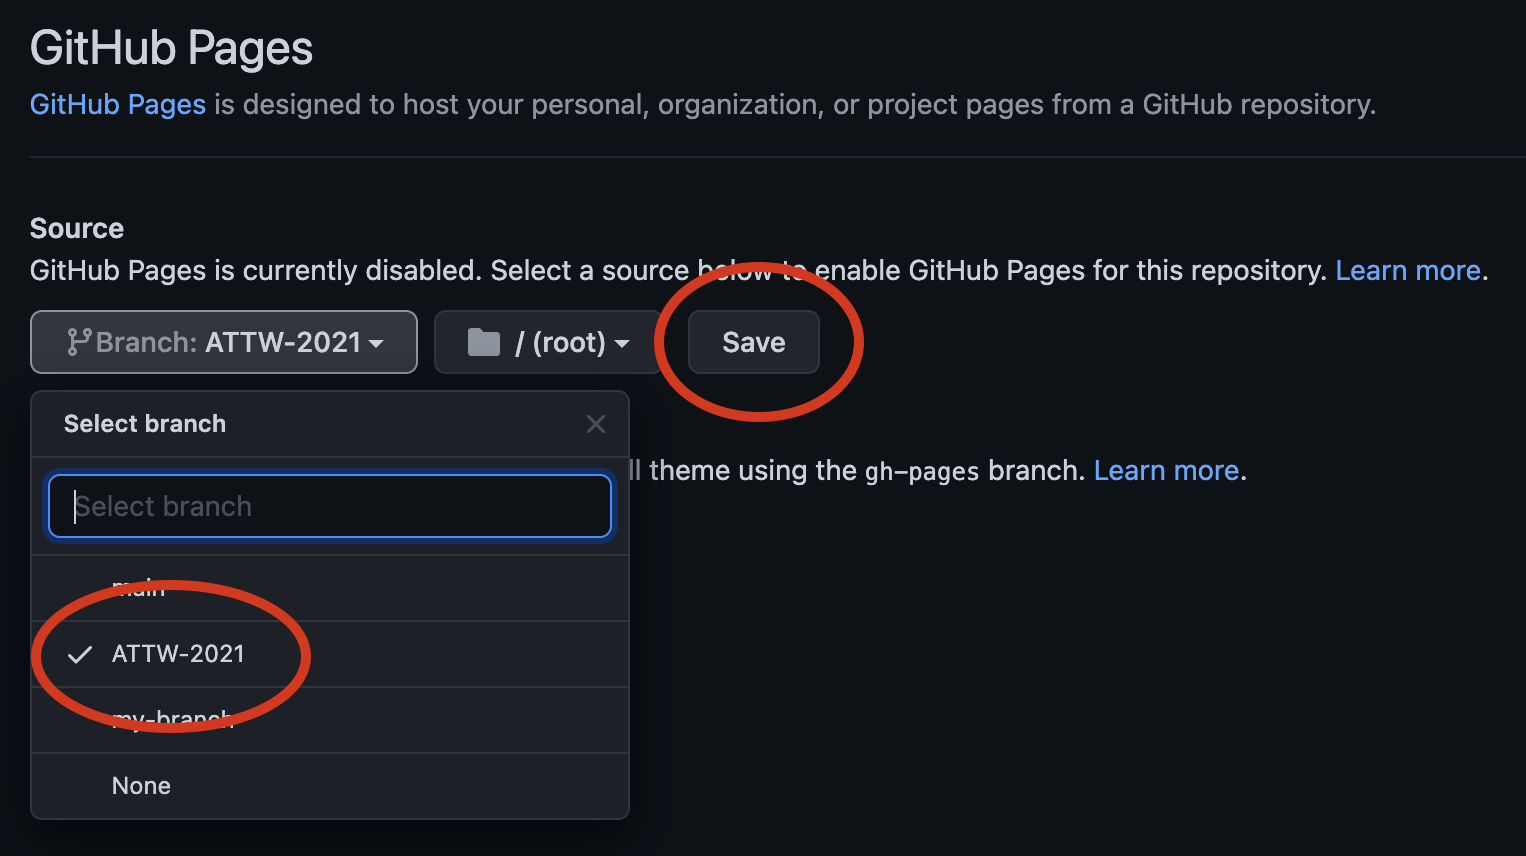
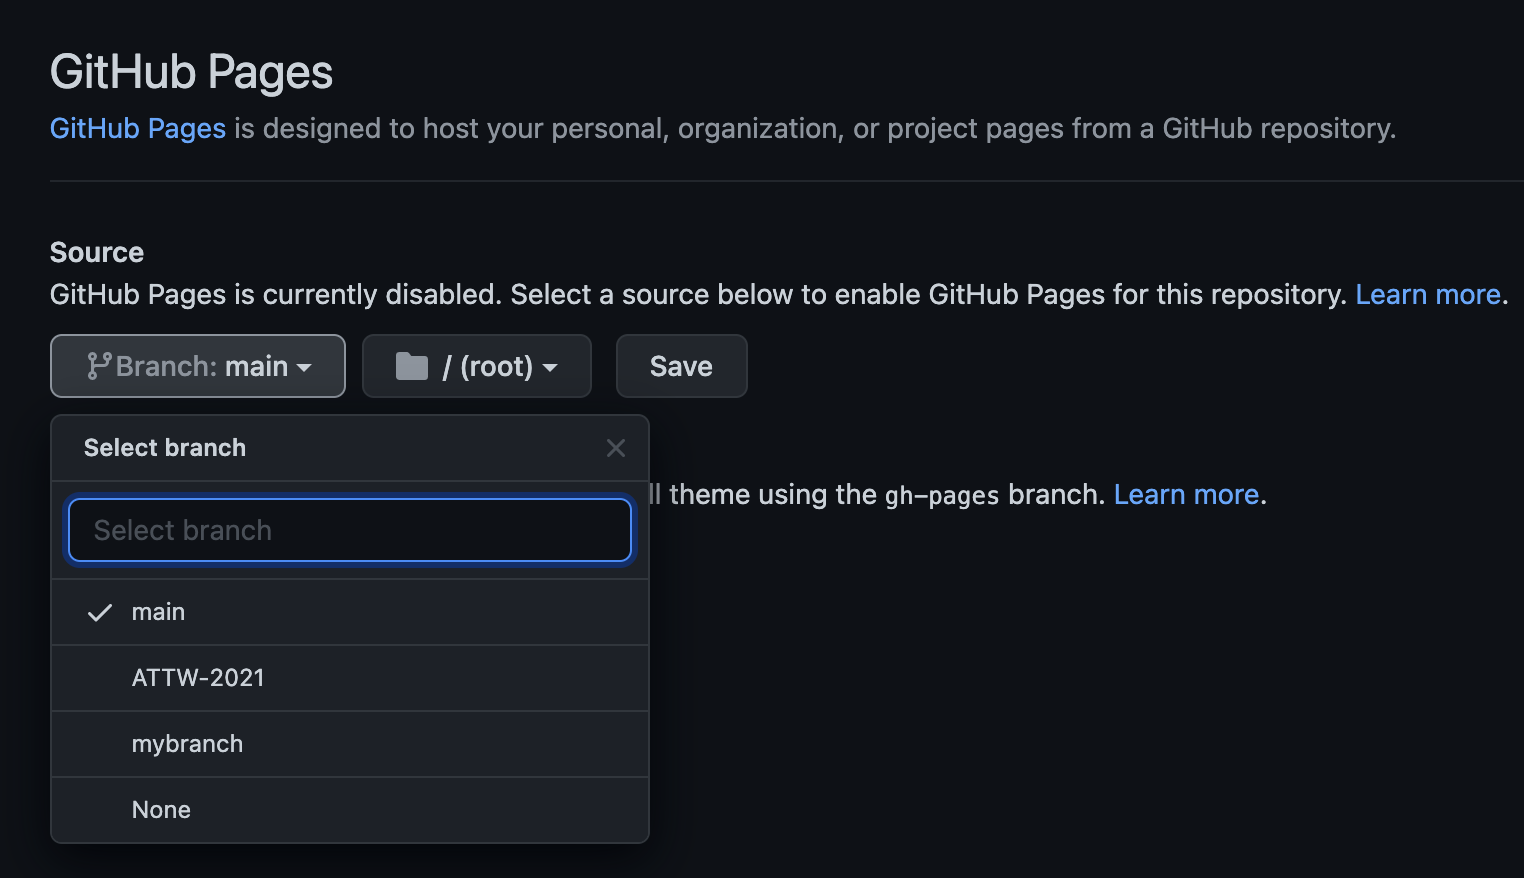
Add files via upload

diff --git a/index.html b/index.html
@@ -39,17 +39,6 @@ Now, between between the <h2> and </h2>, in four sentences or less,  share your 
 <br>
 <br>
 <br>
-  
-  
-  <div class="textblock" style="text-align: left">
-<h1>Participant Code Narratives</h1>
-
-  <p>Hello! I'm Tom and I work at the University of Pittsburgh. I have always been scared of code...mainly, I think, because I lacked exposure to it. While I did use a little HTML when I ran my own business, in my teaching and practice I had relied on visual design web tools like Adobe Muse, Webflow, and drag-n-drop tools like Mobirise, Wix, and Weebly. But at some point I realized that the more I work with and these tools, the more I am at the mercy of corporations and their code. As a result, I have been working to develop tools and pedagogies to help introduce educators and students to code, computer science, and open-source collaboration.</p>
-  </div>
-<br>
-<br>
-<br>
-<br>
 
 
 

diff --git a/Method_1_InterRepository_or_ Forked_Collaboration.md b/Method_1_InterRepository_or_ Forked_Collaboration.md
@@ -1,10 +1,10 @@
 #InterRepository or Forked Collaboration  
 
-Using Git to copy, edit, and compare files inside the GitHub server. In this lesson you will learn the basics of forked collaboration and from there, you can use these same methods to teach others. N*o...of course this isn't a pyramid scam!*
+Using Git to copy, edit, and compare files inside the GitHub server. In this lesson you will learn the basics of forked collaboration and from there, you can use these same methods to teach others. *Nooooo...this is not a pyramid scam!*
 
 Bennefits of this method...
 
-* make your own downstream version of an open-source repository
+* make your own downstream copy of an open-source repository
 * benefit from changes that may occur upstream
 * collaborate with others you may not know...by simply making pull requests
 
@@ -29,10 +29,10 @@ Disadvantages
 
 Now let's make some additions to your branch.
 
-4. In branch, click on the index.html file. Click on the pen tool which will allow you to edit the file using GitHub's web text editor. 
+4. In "**mybranch**", click on the index.html file. Click on the pen tool which will allow you to edit the file using GitHub's web text editor. 
 ![Image detailing directions](images/index.png)
 ![Image detailing directions](images/edit.png)
-Scroll through the code until we find the code narrative section. Copy the code section from <div> to </div.> Paste just below. Replace my narrative with your own. Take a moment to share your own code narrative and what brought you to this workshop.
+Scroll through the code until we find the code narrative section. Follow the directions in the code taking a moment to share your own code narrative and what brought you to this workshop.
  
 5. Once you have finished editing, scroll down to the bottom of the page and click "**Commit**"
 ![Image detailing directions](images/commit.png)
@@ -48,22 +48,22 @@ Now let's share your contribution with the base repository/ATTW 2021 branch you 
 8. Write a comment to let the base repository owner know what this pull request does. Then click "**create pull request**" Don't worry if there are conflicts.
 ![Image detailing directions](images/compareandreq.png)
 
-9. If your pull request is approved, your edits will be **pushed** into the base master repository. Note that the upstream owner may request changes before pushing these changes.
+9. If your pull request is approved, your edits will be **pushed** into the ATTW branch and eventually merged into the main. Note that the upstream owner may request changes before pushing these changes.
 
-10. Once your pull request is closed, you can may be alerted that your request was approved or that there are new changes upstream. Alternatively, you can click "fetch upstream" and Git will compare the changes in the two repositories. If there are changes, you can click "fetch and merge." You will want to merge from the upstream ATTW 2021 to the downstream branch.
+10. Once the upstream owner merges the changes into the master, you may see that your downstream main is behind the upstream main. You can click "fetch upstream" and Git will compare the changes in the two repositories.  Again, make sure you are merging from the upstream Main to the downstream main branch.
 
-*So what just happened?* Well, you made a change to your own branch file and then used Git to suggest changes upstream to the master repository/ATTW 2021 branch. Once that change was approved, you used Git again to merge changes from the upstream ATTW 2021 branch to your downstream ATTW branch. *Git is pretty cool, right?*
+*So what just happened?* Well, you made a change to your own branch file and then used Git to suggest changes upstream to the master repository/ATTW 2021 branch. Once that change gets approved and merged into the main, you will use Git again to merge changes from the upstream Main branch to your downstream Main branch. *Git is pretty cool, right?*
 
-Now there are three branches: 1. The master version. 2. Our ATTW 2021 version we are all editing collaboratively. 3. Your version you can use to teach others about GitHub (feel free to delete my narrative from your branch).  
+Now your repository has three branches: 1. The master version. 2. Our ATTW 2021 version we are all editing collaboratively. 3. Your version you can use to teach others about GitHub. (feel free to delete my narrative from your branch).  
 
-**Ok...this *is* kind of like a pyramid scam.**
+**Ok...so this *is* kind of like a pyramid scam.**
 
 At some point, you will want to "download" or "clone" files to your computer where you can work locally to edit files before committing them to your repository branch. It's a better workflow. You can either commit to GitHub or use Git to compare your locl files with the GitHub server.   
 
 ## GitHub Pages
 
 1. Cool, let's get our collective version of this narrative out there on the internet! Go to "**settings**."
-![Image detailing directions](settings/commit.png)
+![Image detailing directions](images/settings.png)
 2. On the side bar, select "**Pages**."
 ![Image detailing directions](images/pages.png)
 3. Keep the branch in Main. Notice you can select any of the branches to dispay publicly.
@@ -73,7 +73,7 @@ At some point, you will want to "download" or "clone" files to your computer whe
 
 ## Stay Up To Date
 
-Periodically you will want to compare your branches against the upstream repository. Perhaps there are some changes you'd like to see, like our ATTW-2021 branch. To do so, choose ATTW-2021 branch and click fetch upstream.   
+Periodically you will want to compare your branches against the upstream main. To do so, choose **Main branch** and click "**fetch upstream**" and then "**Fetch and Merge**" ![Image detailing directions](images/fetch.png).  
 
 
 Peace and love, Stephen Quigley, University of Pittsburgh
